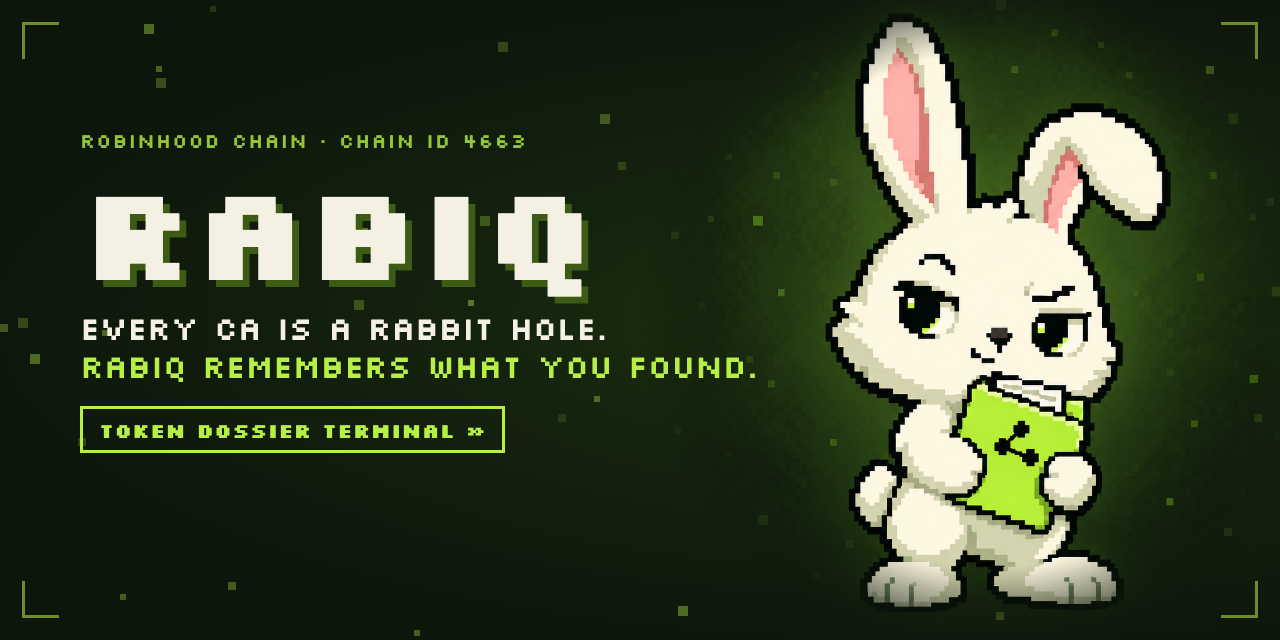
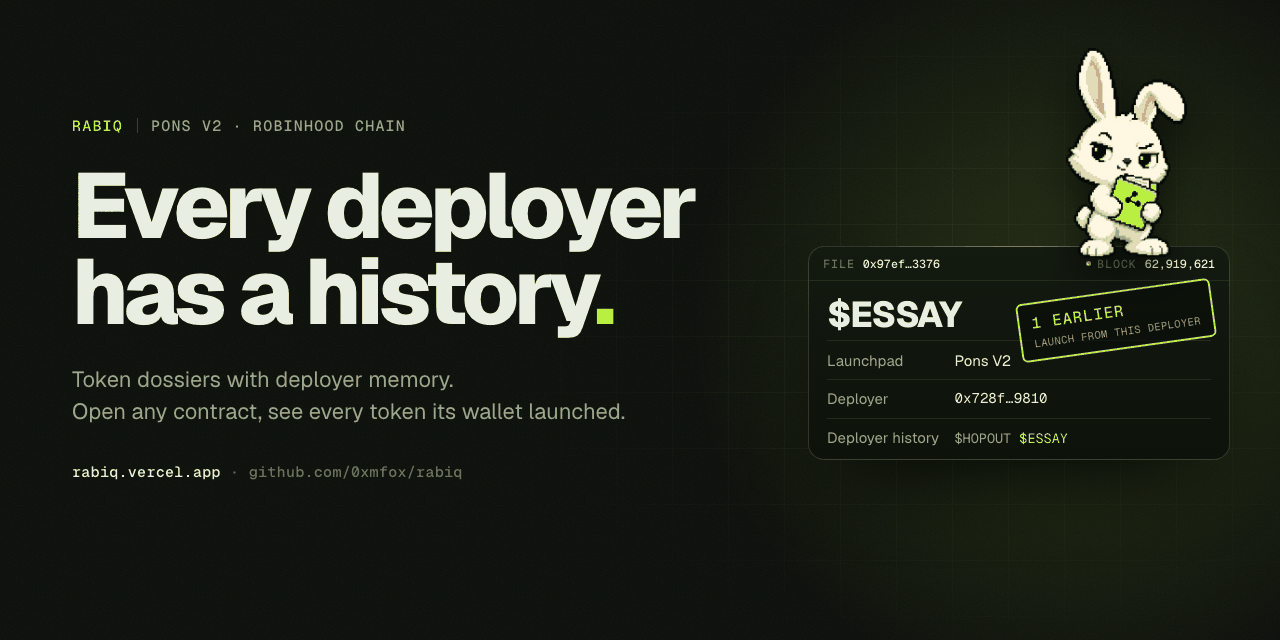
Refresh README and brand assets for the redesigned site
New screenshots and walkthrough from the live site on mainnet data, a
section on how the launch census is counted, and banners in the landing
page style. Screenshots move to WebP (19 MB to 1 MB).

The landing file no longer stamps "10,000+ launches" when the public RPC
throttles a history read: it retries once and otherwise says the chain is
busy. Filtered log reads return full deployer histories, so the old
assumption about a 10k cap was wrong.

diff --git a/src/landing.ts b/src/landing.ts
@@ -161,13 +161,17 @@ function mountFile(root: HTMLElement, data: Promise<LandingData | null>, alive: 
 
   async function history(chain: ChainFacts, token: string, stale: () => boolean) {
     let tokens: `0x${string}`[] | null = null;
-    try { tokens = await launchTokens(chain.deployer!, chain.block); } catch { /* RPC refuses very large histories */ }
+    // the public RPC throttles bursts; one spaced retry covers most of it
+    for (let i = 0; i < 2 && !tokens && !stale(); i++) {
+      try { tokens = await launchTokens(chain.deployer!, chain.block); } catch { await new Promise((r) => setTimeout(r, 2500)); }
+    }
     if (stale()) return;
-    const known = (await data)?.tracks.find((t) => t.deployer === chain.deployer);
     if (!tokens) {
-      f('count').textContent = known ? `${fmt(known.launches)} launches` : 'Too many to read live';
+      const known = (await data)?.tracks.find((t) => t.deployer === chain.deployer);
+      f('count').textContent = known ? `${fmt(known.launches)} launches` : 'Chain busy, open the full dossier';
       rowEl('history').classList.add('in');
-      return stamp(known ? 'Serial launcher' : 'Heavy history', known ? `${fmt(known.launches)} launches` : '10,000+ launches', 'warn');
+      if (known) stamp('Serial launcher', `${fmt(known.launches)} launches`, 'warn');
+      return;
     }
     const idx = tokens.findIndex((t) => t.toLowerCase() === token.toLowerCase());
     const earlier = Math.max(0, idx);

diff --git a/src/lib/sources.ts b/src/lib/sources.ts
@@ -91,7 +91,7 @@ export async function withSymbols(tokens: `0x${string}`[]): Promise<Launch[]> {
 const PONS_V2_FIRST_BLOCK = 27_000_000n;
 const CHUNK = 12_000_000n;
 
-/** Every Pons V2 token this deployer launched, oldest first. Throws when the RPC refuses (it caps a response at 10k logs). */
+/** Every Pons V2 token this deployer launched, oldest first. Throws when the public RPC keeps throttling. */
 export async function launchTokens(deployer: string, headBlock?: number): Promise<`0x${string}`[]> {
   const head = headBlock ? BigInt(headBlock) : await retry(() => client.getBlockNumber());
   const ranges: [bigint, bigint][] = [];

diff --git a/README.md b/README.md
@@ -3,7 +3,7 @@
 </p>
 
 <p align="center">
-  <img src="assets/banner.png" width="100%" alt="RABIQ banner: every CA is a rabbit hole. RABIQ remembers what you found." />
+  <a href="https://rabiq.vercel.app"><img src="assets/social-preview.png" width="100%" alt="RABIQ: every deployer has a history. A live case file for $ESSAY stamped 1 earlier launch from this deployer." /></a>
 </p>
 
 <p align="center">
@@ -16,12 +16,13 @@
 </p>
 
 <p align="center">
-  <strong>Every CA is a rabbit hole. RABIQ remembers what you found.</strong><br/>
-  Token dossiers and deployer memory for the Robinhood trenches.
+  <strong>Every deployer has a history.</strong><br/>
+  Token dossiers and deployer memory for Robinhood Chain.
 </p>
 
 <p align="center">
   <a href="https://rabiq.vercel.app"><strong>Live app</strong></a> ·
+  <a href="#the-number">The number</a> ·
   <a href="#sixty-seconds">Sixty seconds</a> ·
   <a href="#the-dossier">The dossier</a> ·
   <a href="#deployer-memory">Deployer memory</a> ·
@@ -37,6 +38,8 @@
 
 Pons V2 ships a new token on Robinhood Chain every few seconds. You look at a CA, open the repo, read the launch post and decide to wait. Two days later the same deployer launches again, and you have to find everything a second time.
 
+That happens a lot. Across 458,223 Pons V2 launches, **43.9%** of the launches made by wallets came from a wallet that had already launched a token before ([how we counted](#the-number)).
+
 RABIQ turns every contract address into a **dossier**: the on-chain facts, your thesis, what you checked, the question you stopped at and your decision. Open the CA again and RABIQ shows **what changed since your last check**. Dig a new CA from a deployer you already studied and RABIQ puts your old notes in front of you.
 
 ### Keep what you found
@@ -47,6 +50,8 @@ Traders drop most trench research into a chat, a screenshot or nowhere. RABIQ pi
 
 | Engine | Status | What is in the repo |
 | --- | --- | --- |
+| Live site | **WORKING** | [rabiq.vercel.app](https://rabiq.vercel.app): a landing page that opens a case file on the newest Pons V2 launch, then the app |
+| Launch census | **WORKING** | `scripts/landing-data.ts` reads every `TokenLaunched` event, tells wallets from contracts by bytecode and counts repeat launchers |
 | Token dossier | **WORKING** | Paste a CA → one dossier per chain + address, so identical tickers never mix |
 | On-chain facts | **WORKING** | Pons V2 factory `getLaunchedToken` → deployer, fee recipient, phase, creator tax |
 | Deployer memory | **WORKING** | Every `TokenLaunched` by the same deployer; RABIQ highlights tokens already in your burrow |
@@ -55,28 +60,57 @@ Traders drop most trench research into a chat, a screenshot or nowhere. RABIQ pi
 | Strings | **WORKING** | Dossiers link through a shared deployer, fee recipient or GitHub repo (**confirmed**) or through your own notes (**hypothesis**) |
 | Graph | **WORKING** | All dossiers as draggable nodes and connections |
 | Publish / Save to my brain | **WORKING** | A dossier is packed into the link itself. Status, reason and notes stay private unless you opt in |
-| Latest launches | **WORKING** | Live table of the newest Pons V2 launches on the home screen |
+| Live wire | **WORKING** | The newest Pons V2 launches on the app home, refreshed every 20 seconds, next to the live block height |
 | Markdown export | **WORKING** | Any dossier as an Obsidian-friendly note with frontmatter; all dossiers as JSON |
 | CLI | **WORKING** | `rabiq dig`, `rabiq recall`, `rabiq demo` over a folder of Markdown notes |
 | Demo dossiers | **WORKING** | Four synthetic dossiers, labelled as demo, no network requests |
 
 ## What it looks like
 
-<p align="center"><img src="assets/demo.gif" width="100%" alt="RABIQ walkthrough on live Robinhood Chain tokens: dossiers, memory, since last check, graph" /></p>
+<p align="center"><img src="assets/demo.gif" width="100%" alt="RABIQ walkthrough on Robinhood Chain mainnet: the live case file, the number, serial launchers, the live wire, a dossier and the graph" /></p>
 
-The HOP OUT dossier. Its deployer also launched ESSAY, so RABIQ puts the ESSAY research at the top.
+The landing page opens a case file on a Pons V2 token as you watch. Here it is ESSAY: RABIQ reads the launch record and the deployer's history, then stamps the file with what it found.
 
-![RABIQ dossier with memory and since-last-check panels](assets/screens/dossier.png)
+![RABIQ landing page with a live case file for ESSAY](assets/screens/landing.webp)
+
+The app starts with the live wire of new launches. Paste any contract address, or open one from the list.
+
+![RABIQ app home with the live wire of new Pons V2 launches](assets/screens/app.webp)
+
+The HOP OUT dossier. Its deployer also launched ESSAY, so RABIQ puts the ESSAY research at the top. The stamp on the right is your decision.
+
+![RABIQ dossier with the memory panel and on-chain facts](assets/screens/dossier.webp)
 
 | Dossiers as a graph | A published dossier, ready for “Save to my brain” |
 | --- | --- |
-| ![Graph of seven dossiers; HOP OUT and ESSAY share a deployer](assets/screens/graph.png) | ![Published YOINK dossier](assets/screens/shared.png) |
+| ![Graph of seven dossiers; HOP OUT and ESSAY share a deployer](assets/screens/graph.webp) | ![Published YOINK dossier](assets/screens/shared.webp) |
 
 <sub>Screenshots of the running app on Robinhood Chain mainnet. The tokens are live Pons V2 launches from other builders, used here as research examples. The notes in them are sample research, not recommendations.</sub>
 
+## The number
+
+<p align="center"><img src="assets/screens/number.webp" width="100%" alt="43.9% of Pons V2 launches from wallets came from a wallet that had already launched a token" /></p>
+
+`scripts/landing-data.ts` builds the numbers on the landing page from the chain itself:
+
+1. It reads every `TokenLaunched` event from the Pons V2 factory, from the first launch at block 27,027,321 to the current head: 458,223 launches by 252,891 deployer addresses as of block 62,899,527 (14 Sep 2026).
+2. It checks the bytecode of every deployer that launched more than once. A single `eth_call` places a small EXTCODESIZE loop at a scratch address with a state override and measures 1,500 addresses per request.
+3. Addresses without code count as wallets. So do EIP-7702 accounts, whose only code is the 23-byte delegation designator: a key still controls them. The rest are contracts, such as Multicall3, and their 8,206 launches stay out of the share.
+4. A launch counts as "launched before" when the wallet already had an earlier Pons V2 launch: 197,374 of 450,017 wallet launches, or 43.9%.
+
+Single-launch deployers skip the bytecode check. A contract among them would only add a first launch to the denominator, so the share can only come out lower than the true value.
+
+The same script picks the wallets for **Serial launchers**: the two busiest wallets as launch density over the life of Pons V2, and the four wallets with 6 to 60 launches that graduated the most tokens from the bonding curve.
+
+<p align="center"><img src="assets/screens/serial.webp" width="100%" alt="Launch timelines of six serial launchers on Pons V2; lime marks graduated tokens" /></p>
+
+```bash
+node scripts/landing-data.ts   # rewrites public/landing.json; raw logs are cached in .cache/
+```
+
 ## Sixty seconds
 
-1. **Dig.** Paste a Robinhood Chain CA into the top bar, or open a token from **Latest Pons V2 launches**. RABIQ reads the Pons V2 launch record, the market and every launch by the same deployer.
+1. **Dig.** Paste a Robinhood Chain CA into the top bar, or open a token from the **live wire**. RABIQ reads the Pons V2 launch record, the market and every launch by the same deployer.
 2. **Write down what you know.** A one-line thesis, two arguments for, one against. Add the launch post and the GitHub repo as sources; RABIQ records the repo head commit on the next check.
 3. **Leave a question.** “Does the CLI actually run?” RABIQ marks the first open question **next**.
 4. **Decide.** Watching, Researching, In position or Passed, with a reason.
@@ -88,7 +122,7 @@ The HOP OUT dossier. Its deployer also launched ESSAY, so RABIQ puts the ESSAY r
 
 One dossier per chain and contract address. Two tokens with the same ticker are two different dossiers.
 
-<p align="center"><img src="assets/screens/questions.png" width="80%" alt="Open questions with the next one flagged" /></p>
+<p align="center"><img src="assets/screens/questions.webp" width="80%" alt="Open questions with the next one flagged" /></p>
 
 | Section | What it holds |
 | --- | --- |
@@ -112,13 +146,13 @@ Two things happen with that list:
 - **In the facts panel**, RABIQ lists the deployer's launches. It highlights the ones you already have a dossier for and links them to your notes.
 - **In RABIQ remembers**, RABIQ surfaces any dossier that shares this deployer or fee recipient, with its decision, reason, thesis and first open question.
 
-<p align="center"><img src="assets/screens/memory.png" width="100%" alt="RABIQ remembers: the ESSAY dossier shown on HOP OUT through the shared deployer" /></p>
+<p align="center"><img src="assets/screens/memory.webp" width="100%" alt="RABIQ remembers: the ESSAY dossier shown on HOP OUT through the shared deployer" /></p>
 
 ## Since last check
 
 Every check stores a snapshot. RABIQ compares the newest snapshot with the previous one using fixed rules:
 
-<p align="center"><img src="assets/screens/since.png" width="100%" alt="YOINK: FDV and liquidity moved since the last check" /></p>
+<p align="center"><img src="assets/screens/since.webp" width="100%" alt="YOINK: FDV moved since the last check" /></p>
 
 | Change | Rule |
 | --- | --- |
@@ -144,7 +178,7 @@ A check that finds nothing new replaces the latest snapshot instead of adding on
 
 RABIQ confirms a string from identical addresses and repositories. It files anything drawn from your own writing as a hypothesis. The **Graph** view draws one string per pair: solid when a confirmed link exists, dashed for hypotheses.
 
-<p align="center"><img src="assets/screens/facts.png" width="55%" alt="On-chain facts and connections panels" /></p>
+<p align="center"><img src="assets/screens/facts.webp" width="55%" alt="On-chain facts and connections panels" /></p>
 
 ## Publish and Save to my brain
 
@@ -185,6 +219,7 @@ Click **Load demo dossiers** for an offline walkthrough, or paste any Robinhood 
 ```bash
 npm test           # logic tests
 npm run build      # static site in dist/, deployable anywhere
+node scripts/landing-data.ts   # refresh the launch census on the landing page
 ```
 
 ## CLI
@@ -295,7 +330,8 @@ No. RABIQ organises your research; you make the trading decisions.
 
 - [x] Web app: dossiers, deployer memory, since last check, strings, graph, publish
 - [x] CLI over Markdown notes
-- [ ] Hosted web app
+- [x] Hosted web app at [rabiq.vercel.app](https://rabiq.vercel.app)
+- [x] Landing page with a live case file and the on-chain launch census
 - [ ] Deployer watchlist: flag new launches from deployers already in your burrow
 - [ ] Publish a whole research map (several connected dossiers) as one link
 - [ ] Optional GitHub token for higher repository rate limits
@@ -317,15 +353,18 @@ src/lib/links.ts     confirmed vs hypothesis strings between dossiers
 src/lib/share.ts     publish links, sanitising, Save to my brain merge
 src/lib/burrow.ts    dossier model, localStorage, Markdown export
 src/lib/demo.ts      synthetic demo burrow
+src/lib/live.ts      live block height shared by every page
+src/landing.ts       landing page: live case file, the number, serial launchers
 src/main.ts          web app
 src/graph.ts         burrow graph
+scripts/landing-data.ts  launch census behind public/landing.json
 bin/rabiq.ts         CLI over Markdown notes
 test/                node:test suite
 ```
 
 ## Built on
 
-[viem](https://viem.sh) for Robinhood Chain reads · [Vite](https://vite.dev) for the web build · [Pons V2](https://www.ponsfamily.com) launch records · [DexScreener API](https://docs.dexscreener.com) · [GitHub REST API](https://docs.github.com/rest) · Multicall3
+[viem](https://viem.sh) for Robinhood Chain reads · [Vite](https://vite.dev) for the web build · [Pons V2](https://www.ponsfamily.com) launch records · [DexScreener API](https://docs.dexscreener.com) · [GitHub REST API](https://docs.github.com/rest) · Multicall3 · hosted on [Vercel](https://vercel.com)
 
 ## $RABIQ
 
